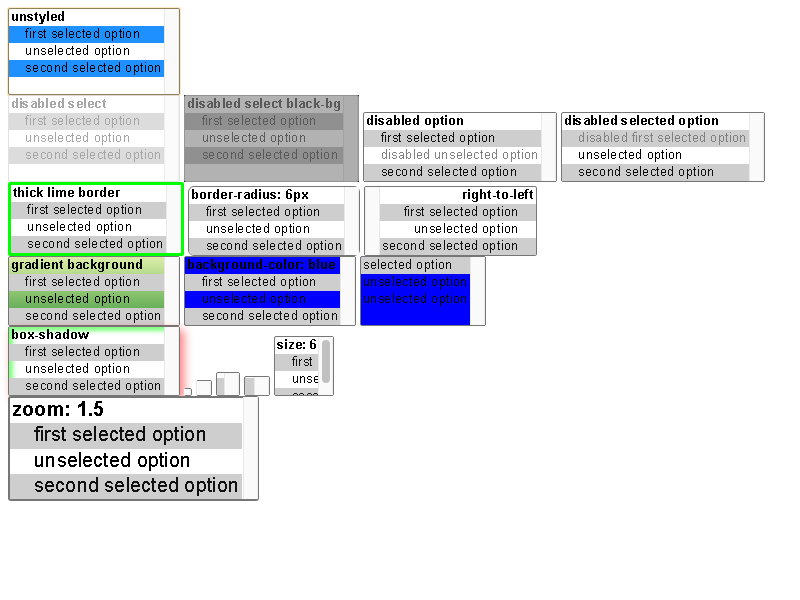
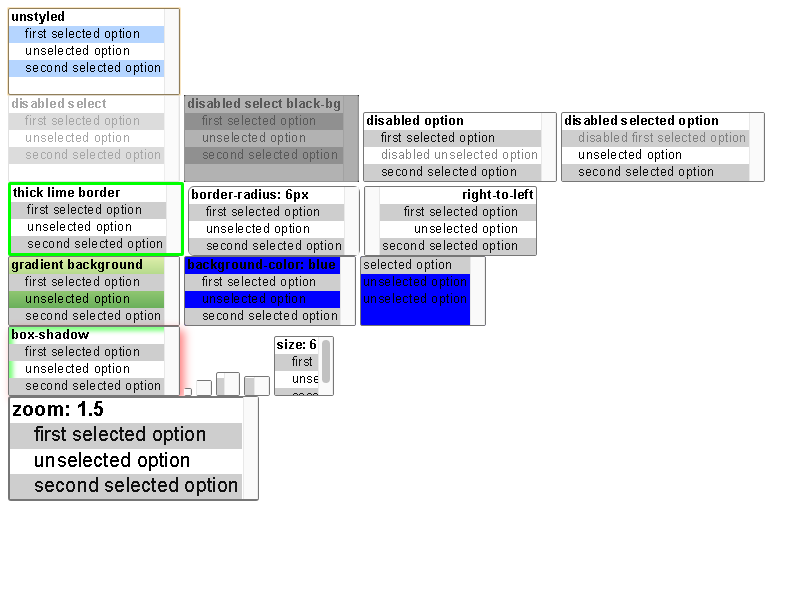
Make LayoutThemeMacRefresh preserve Mac text selection/underline color
When the controls refresh is enabled, LayoutThemeMacRefresh is used
instead of LayoutThemeMac.  The former inherits from LayoutThemeDefault
but implements no functionality of its own, whereas the latter inherits
directly from LayoutTheme and implements various mac-specific styling.

Most of LayoutThemeMac applies to the old form control implementations,
and will eventually be discarded in favor of platform-agnostic
implementations in LayoutThemeDefault.  However, text selection color
is also specified in LayoutThemeMac, and this was not replicated in
LayoutThemeMacRefresh, with the result that switching on the
controls refresh flag changes text selection color.

This CL resolves the issue by reproducing the non-controls-related theming
functions from LayoutThemeMac in LayoutThemeMacRefresh.  The code
duplication looks suspicious at first glance but should be acceptable
for the time being because all of LayoutThemeMac is destined for deletion
once the new controls have been permanently enabled.

Bug: 994290
Commit-Queue: Dan Clark <daniec@microsoft.com>
Cr-Commit-Position: refs/heads/master@{#723485}

Changed region(s): [[0.0, 0.03, 0.2188, 0.15]]

diff --git a/web_tests/virtual/controls-refresh/color-scheme/text-selection-outside-control.html b/web_tests/virtual/controls-refresh/color-scheme/text-selection-outside-control.html
@@ -1,0 +1,9 @@
+<!DOCTYPE html>
+<body>
+    <div id="target">This is some basic text that we are going to select.</div>
+    <script>
+        let targetText = document.querySelector("#target").firstChild;
+        let selectionRange = window.getSelection();
+        selectionRange.setBaseAndExtent(targetText, 5, targetText, 35);
+    </script>
+</body>

diff --git a/renderer/core/layout/layout_theme_mac.mm b/renderer/core/layout/layout_theme_mac.mm
@@ -146,6 +146,15 @@ class LayoutThemeMacRefresh final : public LayoutThemeDefault {
   static scoped_refptr<LayoutTheme> Create() {
     return base::AdoptRef(new LayoutThemeMacRefresh());
   }
+
+  Color PlatformActiveSelectionBackgroundColor(
+      WebColorScheme color_scheme) const override;
+  Color PlatformInactiveSelectionBackgroundColor(
+      WebColorScheme color_scheme) const override;
+  Color PlatformActiveSelectionForegroundColor(
+      WebColorScheme color_scheme) const override;
+  Color PlatformSpellingMarkerUnderlineColor() const override;
+  Color PlatformGrammarMarkerUnderlineColor() const override;
 };
 
 // Inflate an IntRect to account for specific padding around margins.
@@ -274,6 +283,29 @@ Color LayoutThemeMac::PlatformFocusRingColor() const {
 Color LayoutThemeMac::PlatformInactiveListBoxSelectionBackgroundColor(
     WebColorScheme color_scheme) const {
   return PlatformInactiveSelectionBackgroundColor(color_scheme);
+}
+
+Color LayoutThemeMacRefresh::PlatformActiveSelectionBackgroundColor(
+    WebColorScheme color_scheme) const {
+  return GetSystemColor(MacSystemColorID::kSelectedTextBackground);
+}
+
+Color LayoutThemeMacRefresh::PlatformInactiveSelectionBackgroundColor(
+    WebColorScheme color_scheme) const {
+  return GetSystemColor(MacSystemColorID::kSecondarySelectedControl);
+}
+
+Color LayoutThemeMacRefresh::PlatformActiveSelectionForegroundColor(
+    WebColorScheme color_scheme) const {
+  return Color::kBlack;
+}
+
+Color LayoutThemeMacRefresh::PlatformSpellingMarkerUnderlineColor() const {
+  return Color(251, 45, 29);
+}
+
+Color LayoutThemeMacRefresh::PlatformGrammarMarkerUnderlineColor() const {
+  return Color(107, 107, 107);
 }
 
 static FontSelectionValue ToFontWeight(NSInteger app_kit_font_weight) {
